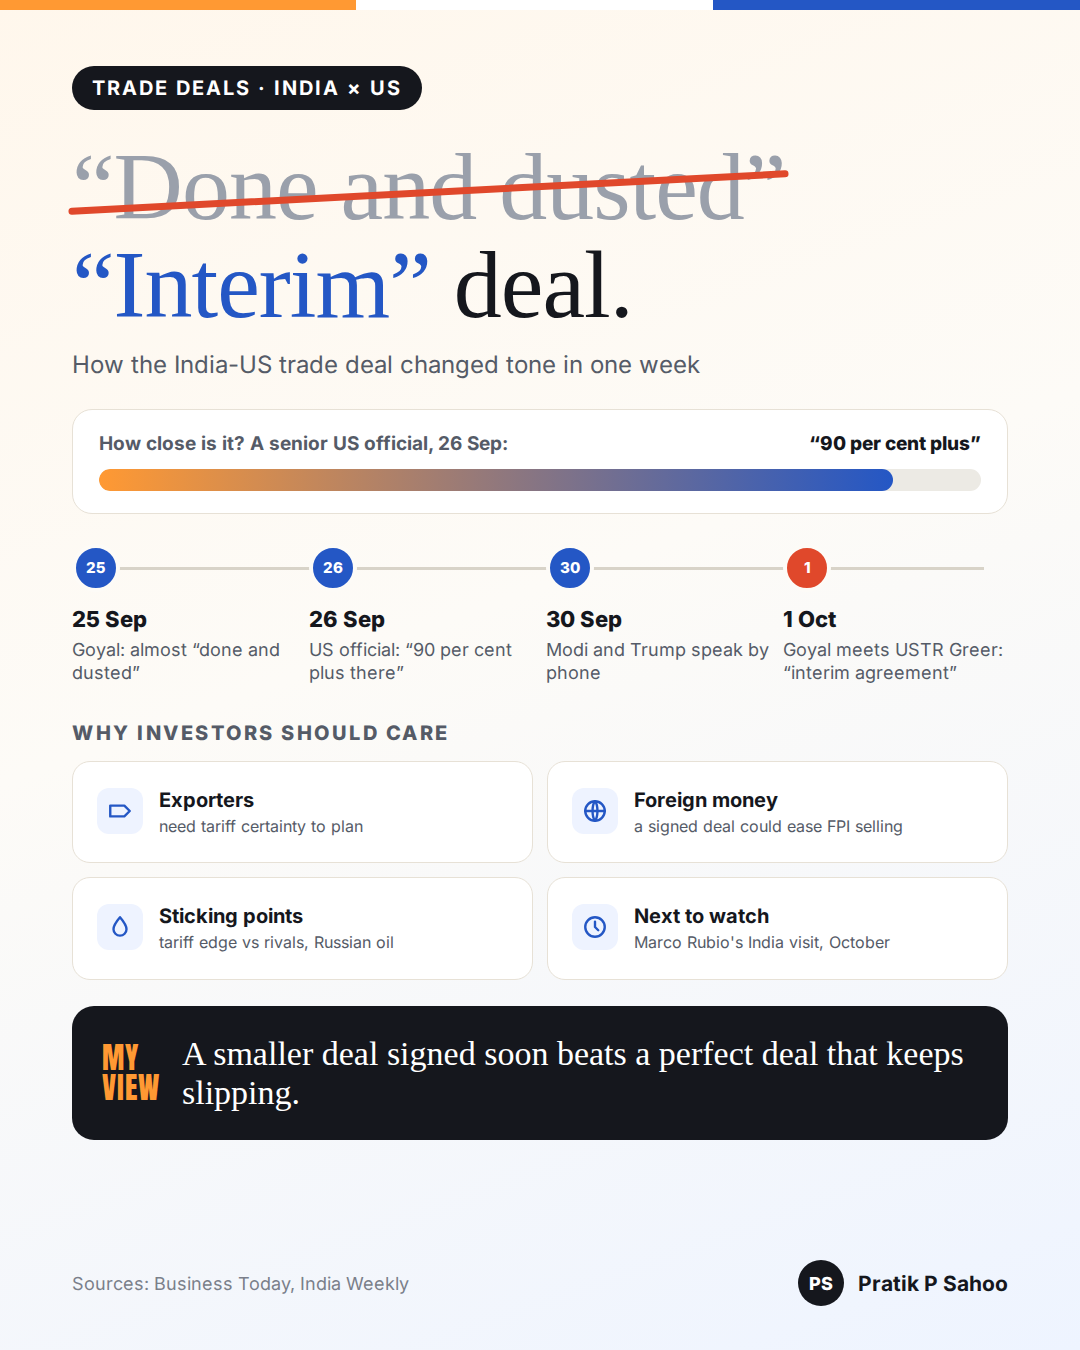
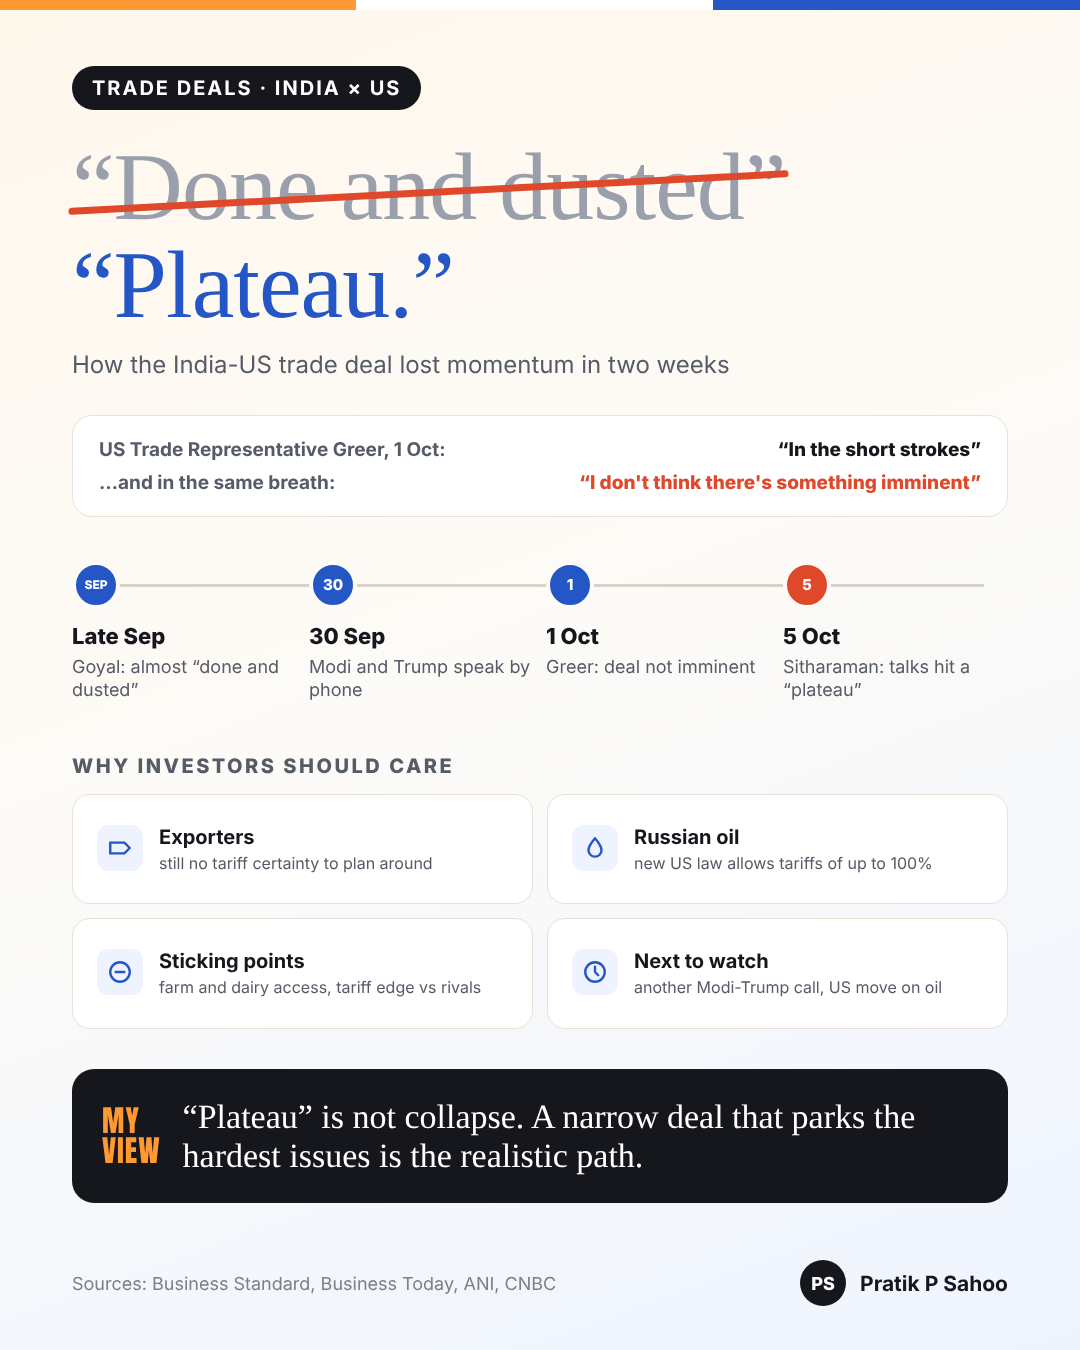
Update India-US trade deal visual: talks hit 'plateau' (as of 9 Oct)
Claude-Session: https://claude.ai/code/session_01VMo9soA6tR1CERxUHsGM7n

diff --git a/design/trade.html b/design/trade.html
@@ -8,46 +8,46 @@ body{background:linear-gradient(160deg,#fff7ec 0%,#fdfbf7 45%,#eef4ff 100%);colo
 .h1 s:after{content:"";position:absolute;left:-4px;right:-4px;top:52%;height:7px;background:#e0482b;transform:rotate(-3deg);border-radius:4px}
 .h1 em{font-style:normal;color:#2457c5}
 .sub{margin-top:16px;font-size:24px;color:#555b67}
-.meter{margin-top:30px;background:#fff;border:1px solid #e7e1d6;border-radius:20px;padding:22px 26px}
+.meter{margin-top:36px;background:#fff;border:1px solid #e7e1d6;border-radius:20px;padding:22px 26px}
 .meter .row{display:flex;justify-content:space-between;font-size:19px;font-weight:700;color:#555b67}
 .meter .row b{color:#15171d}
 .track{margin-top:14px;height:22px;background:#eceae4;border-radius:999px;overflow:hidden}
 .fill{height:100%;width:90%;background:linear-gradient(90deg,#ff9933,#2457c5);border-radius:999px}
-.tl{margin-top:30px;display:grid;grid-template-columns:repeat(4,1fr);gap:12px;position:relative}
+.tl{margin-top:44px;display:grid;grid-template-columns:repeat(4,1fr);gap:12px;position:relative}
 .tl:before{content:"";position:absolute;left:24px;right:24px;top:23px;height:3px;background:#d8d3c8}
 .ev{position:relative}
 .ev .d{width:48px;height:48px;border-radius:50%;background:#2457c5;color:#fff;display:grid;place-items:center;font-weight:800;font-size:15px;border:4px solid #fdfbf7}
 .ev.last .d{background:#e0482b}
 .ev h4{margin-top:14px;font-size:22px;font-weight:800}
 .ev p{margin-top:6px;font-size:18px;color:#555b67;line-height:1.3}
-.h2{margin-top:36px;font-size:20px;font-weight:800;letter-spacing:2.5px;color:#555b67}
+.h2{margin-top:52px;font-size:20px;font-weight:800;letter-spacing:2.5px;color:#555b67}
 .stake{margin-top:16px;display:grid;grid-template-columns:1fr 1fr;gap:14px}
-.st{background:#fff;border:1px solid #e7e1d6;border-radius:18px;padding:26px 24px;display:flex;gap:16px;align-items:flex-start}
+.st{background:#fff;border:1px solid #e7e1d6;border-radius:18px;padding:30px 24px;display:flex;gap:16px;align-items:flex-start}
 .st .ic{width:46px;height:46px;border-radius:12px;display:grid;place-items:center;flex:none;background:#eef3ff}
 .st b{display:block;font-size:20px}
 .st span{display:block;font-size:16px;color:#555b67;margin-top:4px;line-height:1.3}
-.view{margin-top:26px;background:#15171d;color:#fff;border-radius:22px;padding:28px 30px;display:flex;gap:22px;align-items:center}
+.view{margin-top:40px;background:#15171d;color:#fff;border-radius:22px;padding:28px 30px;display:flex;gap:22px;align-items:center}
 .view .tag{font-family:Anton;font-size:30px;color:#ff9933;letter-spacing:1px;flex:none;line-height:1}
 .view p{font-family:Serif;font-size:34px;line-height:1.15}
 .footer{color:#7a7f8a}.sig{color:#15171d}.sig .mono{background:#15171d;color:#fff}
 </style></head><body><div class="band"></div><div class="wrap">
 <span class="pill">Trade deals · India × US</span>
-<div class="h1"><s>“Done and dusted”</s><br><em>“Interim”</em> deal.</div>
-<div class="sub">How the India-US trade deal changed tone in one week</div>
-<div class="meter"><div class="row"><span>How close is it? A senior US official, 26 Sep:</span><b>“90 per cent plus”</b></div><div class="track"><div class="fill"></div></div></div>
+<div class="h1"><s>“Done and dusted”</s><br><em>“Plateau.”</em></div>
+<div class="sub">How the India-US trade deal lost momentum in two weeks</div>
+<div class="meter"><div class="row"><span>US Trade Representative Greer, 1 Oct:</span><b>“In the short strokes”</b></div><div class="row" style="margin-top:10px"><span>…and in the same breath:</span><b style="color:#e0482b">“I don't think there's something imminent”</b></div></div>
 <div class="tl">
-<div class="ev"><div class="d">25</div><h4>25 Sep</h4><p>Goyal: almost “done and dusted”</p></div>
-<div class="ev"><div class="d">26</div><h4>26 Sep</h4><p>US official: “90 per cent plus there”</p></div>
+<div class="ev"><div class="d" style="font-size:12px">SEP</div><h4>Late Sep</h4><p>Goyal: almost “done and dusted”</p></div>
 <div class="ev"><div class="d">30</div><h4>30 Sep</h4><p>Modi and Trump speak by phone</p></div>
-<div class="ev last"><div class="d">1</div><h4>1 Oct</h4><p>Goyal meets USTR Greer: “interim agreement”</p></div>
+<div class="ev"><div class="d">1</div><h4>1 Oct</h4><p>Greer: deal not imminent</p></div>
+<div class="ev last"><div class="d">5</div><h4>5 Oct</h4><p>Sitharaman: talks hit a “plateau”</p></div>
 </div>
 <div class="h2">WHY INVESTORS SHOULD CARE</div>
 <div class="stake">
-<div class="st"><div class="ic"><svg width="26" height="26" viewBox="0 0 24 24" fill="none" stroke="#2457c5" stroke-width="2.2" stroke-linecap="round" stroke-linejoin="round"><path d="M3 7h13l5 5-5 5H3z"/></svg></div><div><b>Exporters</b><span>need tariff certainty to plan</span></div></div>
-<div class="st"><div class="ic"><svg width="26" height="26" viewBox="0 0 24 24" fill="none" stroke="#2457c5" stroke-width="2.2" stroke-linecap="round" stroke-linejoin="round"><circle cx="12" cy="12" r="9"/><path d="M3 12h18M12 3c3 3.5 3 14.5 0 18M12 3c-3 3.5-3 14.5 0 18"/></svg></div><div><b>Foreign money</b><span>a signed deal could ease FPI selling</span></div></div>
-<div class="st"><div class="ic"><svg width="26" height="26" viewBox="0 0 24 24" fill="none" stroke="#2457c5" stroke-width="2.2" stroke-linecap="round" stroke-linejoin="round"><path d="M12 3s6 7 6 11a6 6 0 0 1-12 0c0-4 6-11 6-11z"/></svg></div><div><b>Sticking points</b><span>tariff edge vs rivals, Russian oil</span></div></div>
-<div class="st"><div class="ic"><svg width="26" height="26" viewBox="0 0 24 24" fill="none" stroke="#2457c5" stroke-width="2.2" stroke-linecap="round" stroke-linejoin="round"><circle cx="12" cy="12" r="9"/><path d="M12 7v5l3 3"/></svg></div><div><b>Next to watch</b><span>Marco Rubio's India visit, October</span></div></div>
+<div class="st"><div class="ic"><svg width="26" height="26" viewBox="0 0 24 24" fill="none" stroke="#2457c5" stroke-width="2.2" stroke-linecap="round" stroke-linejoin="round"><path d="M3 7h13l5 5-5 5H3z"/></svg></div><div><b>Exporters</b><span>still no tariff certainty to plan around</span></div></div>
+<div class="st"><div class="ic"><svg width="26" height="26" viewBox="0 0 24 24" fill="none" stroke="#2457c5" stroke-width="2.2" stroke-linecap="round" stroke-linejoin="round"><path d="M12 3s6 7 6 11a6 6 0 0 1-12 0c0-4 6-11 6-11z"/></svg></div><div><b>Russian oil</b><span>new US law allows tariffs of up to 100%</span></div></div>
+<div class="st"><div class="ic"><svg width="26" height="26" viewBox="0 0 24 24" fill="none" stroke="#2457c5" stroke-width="2.2" stroke-linecap="round" stroke-linejoin="round"><circle cx="12" cy="12" r="9"/><path d="M8 12h8"/></svg></div><div><b>Sticking points</b><span>farm and dairy access, tariff edge vs rivals</span></div></div>
+<div class="st"><div class="ic"><svg width="26" height="26" viewBox="0 0 24 24" fill="none" stroke="#2457c5" stroke-width="2.2" stroke-linecap="round" stroke-linejoin="round"><circle cx="12" cy="12" r="9"/><path d="M12 7v5l3 3"/></svg></div><div><b>Next to watch</b><span>another Modi-Trump call, US move on oil</span></div></div>
 </div>
-<div class="view"><div class="tag">MY<br>VIEW</div><p>A smaller deal signed soon beats a perfect deal that keeps slipping.</p></div></div>
-<div class="footer"><span>Sources: Business Today, India Weekly</span><span class="sig"><span class="mono">PS</span>Pratik P Sahoo</span></div>
+<div class="view"><div class="tag">MY<br>VIEW</div><p>“Plateau” is not collapse. A narrow deal that parks the hardest issues is the realistic path.</p></div></div>
+<div class="footer"><span>Sources: Business Standard, Business Today, ANI, CNBC</span><span class="sig"><span class="mono">PS</span>Pratik P Sahoo</span></div>
 </body></html>
